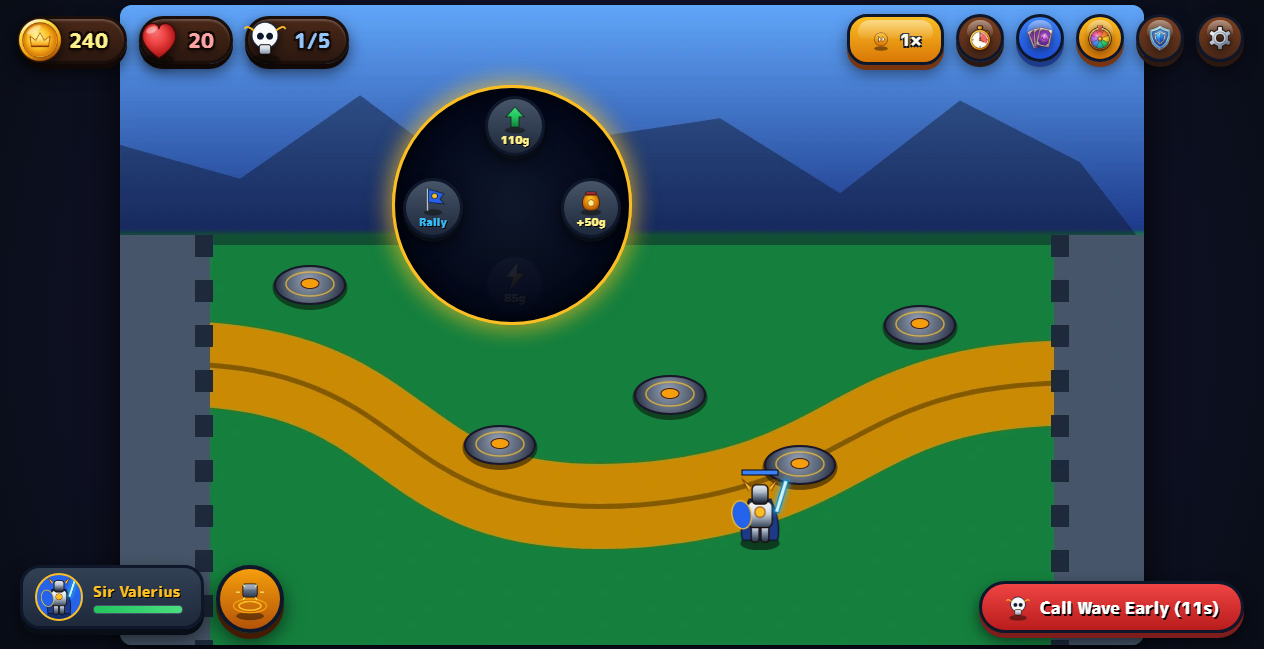
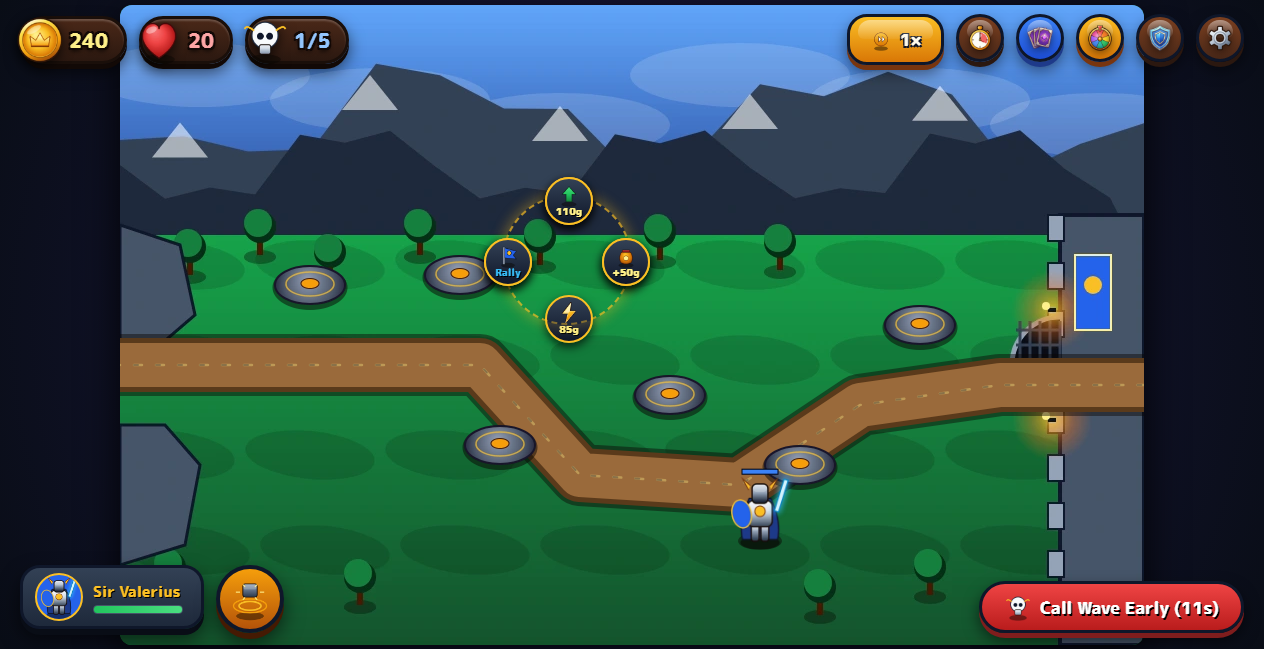
Release v1.1.0: Visual & Diorama Overhaul, Compact Radial Menu, Screen Shake & Combat Juice

diff --git a/README.md b/README.md
@@ -22,12 +22,12 @@
     <img src="https://img.shields.io/badge/More_Apps-jemangr.app-f59e0b?style=for-the-badge" alt="jemangr.app" />
   </a>
   <a href="https://github.com/jemangr/bastion-guard-releases/releases">
-    <img src="https://img.shields.io/badge/Releases-v1.0.0-22c55e?style=for-the-badge" alt="GitHub Releases" />
+    <img src="https://img.shields.io/badge/Releases-v1.1.0-22c55e?style=for-the-badge" alt="GitHub Releases" />
   </a>
 </p>
 
 <p align="center">
-  <img src="https://img.shields.io/badge/Version-v1.0.0-brightgreen" alt="Version v1.0.0" />
+  <img src="https://img.shields.io/badge/Version-v1.1.0-brightgreen" alt="Version v1.1.0" />
   <img src="https://img.shields.io/badge/Package-app.jemangr.bastionguard-blue" alt="Package app.jemangr.bastionguard" />
   <img src="https://img.shields.io/badge/Platform-Android%208.0%2B-purple" alt="Android 8.0+" />
   <img src="https://img.shields.io/badge/Languages-EL%20%7C%20EN-gold" alt="Languages EL | EN" />
